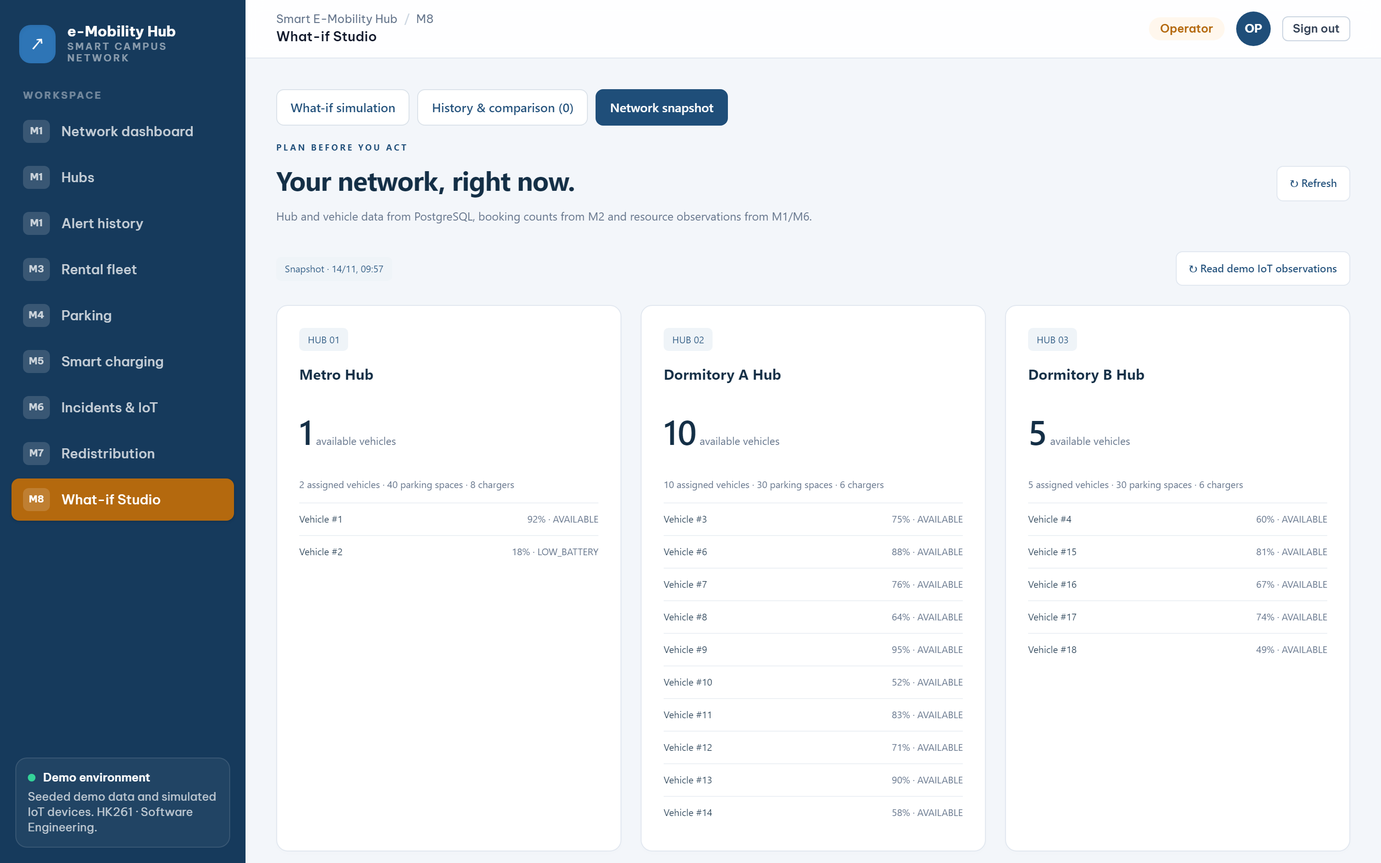
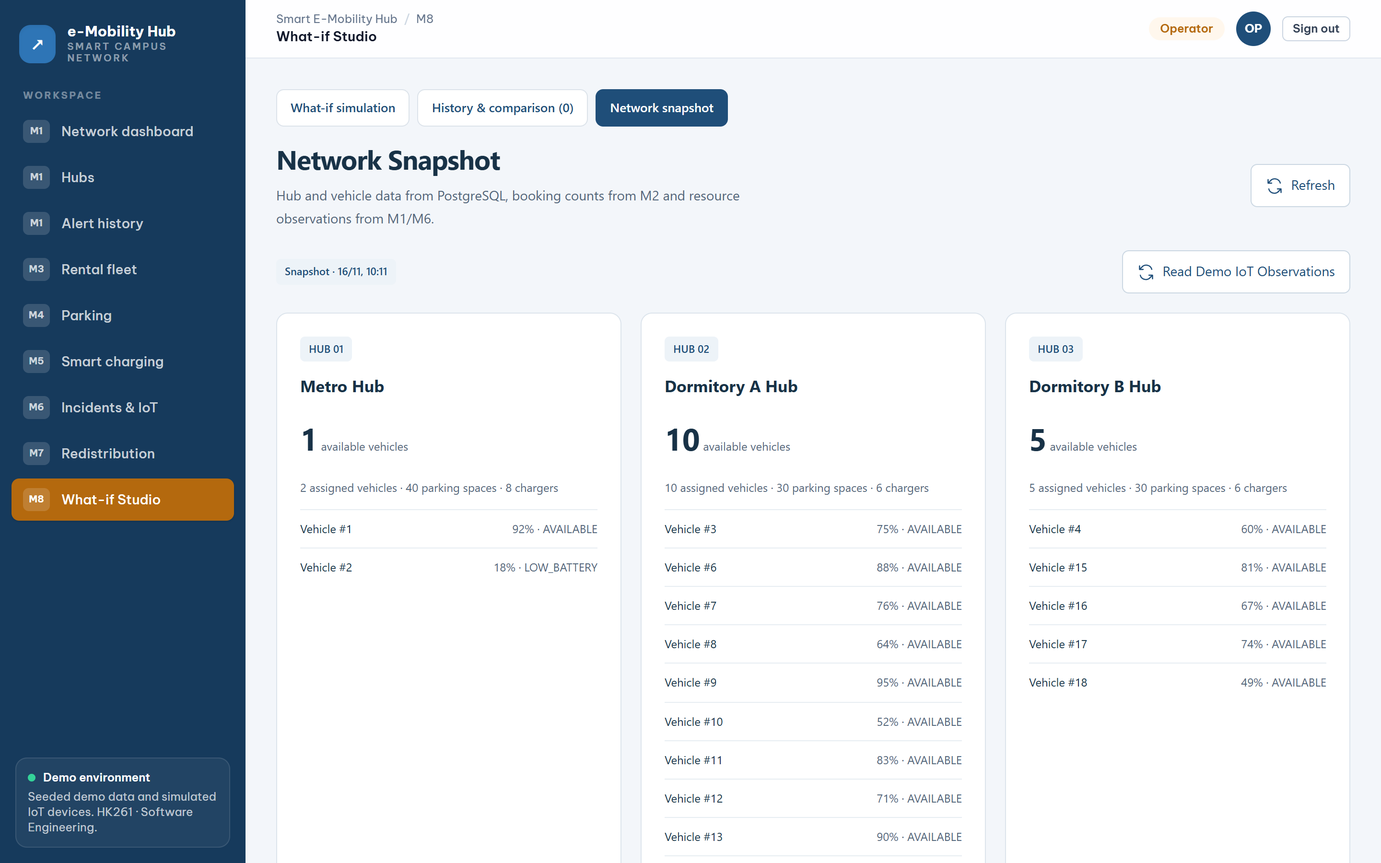
[DOCS][M8] Update M8 diagrams, contracts, runbook and screenshots to the current behavior
- Diagrams: proposal states (PENDING, NEEDS_REVIEW, PARTIAL, APPROVED, APPLIED, DISCARDED),
  AI plan exploration, Apply/Discard through RedistributionRecommendations and the M7 sync.
- module-contracts: proposal states instead of the unused SimulationRun states; decision and
  withdraw on the M7 contract; removed the outdated "not implemented" line.
- Runbook, demo script, SETUP and screenshot notes: removed DISPATCH_NOT_CONNECTED and the
  non-existent "Approve & execute" button; demo step 10 now shows a dispatch sent to M7.
- Recaptured the M8 screenshots on main's UI and updated the capture hints to the new labels.

diff --git a/docs/tools_for_figures/python/m8/m8.py b/docs/tools_for_figures/python/m8/m8.py
@@ -4,24 +4,33 @@ from lib import *
 O=png_dir('m8')
 usecase(O+'m8_usecase.png','«subsystem» M8 — What-if Simulation',
  [('UC-M8-01','Prepare a scenario|(describe or edit)'),('UC-M8-06','Validate the|scenario'),('UC-M8-02','Run a simulation|on a snapshot'),
-  ('UC-M8-03','Review and compare|saved runs'),('UC-M8-04','Review recommendations|(discard / apply)'),('UC-M8-05','Check recent booking|volume every 30 min')],
- left=[('op','Operator',False),('tm','Timer',True)], right=[('ai','AI provider (optional)',True),('own','M2, M3, M1, M6 data',True)],
- assoc=[('op','UC-M8-01'),('op','UC-M8-02'),('op','UC-M8-03'),('op','UC-M8-04'),('tm','UC-M8-05'),('ai','UC-M8-01'),('ai','UC-M8-04'),('own','UC-M8-02'),('own','UC-M8-05')],
+  ('UC-M8-03','Review and compare|saved runs'),('UC-M8-04','Review recommendations|(discard / send to M7)'),('UC-M8-05','Check recent booking|volume every 30 min')],
+ left=[('op','Operator',False),('tm','Timer',True)], right=[('ai','AI provider (optional)',True),('m7','M7 Redistribution',True),('own','M1–M4 data',True)],
+ assoc=[('op','UC-M8-01'),('op','UC-M8-02'),('op','UC-M8-03'),('op','UC-M8-04'),('tm','UC-M8-05'),('ai','UC-M8-01'),('ai','UC-M8-02'),('m7','UC-M8-04'),('own','UC-M8-02'),('own','UC-M8-05')],
  rels=[('UC-M8-01','UC-M8-06','include'),('UC-M8-02','UC-M8-06','include'),('UC-M8-04','UC-M8-02','extend')], amber=('UC-M8-05',))
 N={}
-N['SimulationController']=klass('SimulationController','REST, /api/m8 (OPERATOR)',attrs=None,ops=['+snapshot() / status() / runs()','+parse(text): ParseResult','+run(scenario, snapshotRunId, repeatRecentBookings): Run','+discard(runId, recId) / apply(runId, recId)','+check()'])
-N['SimulationService']=klass('SimulationService','service',attrs=None,ops=['+run(scenario, snapshotRunId, repeat): Run','+discard(runId, recId): Run','+apply(runId, recId)','+parse(text): ParseResult'])
-N['ScenarioAssistant']=klass('ScenarioAssistant','service, optional LLM (M8_LLM_*)',attrs=['-url, key, model: String'],ops=['+parse(text, snapshot): ParseResult','+validate(scenario, snapshot)','+recommend(snapshot, scenario, kpi, engine): Proposals','-parkingRoom(snapshot, hub): int'])
+N['SimulationController']=klass('SimulationController','REST, /api/m8 (OPERATOR)',attrs=None,ops=['+snapshot() / status() / runs()','+parse(text): ParseResult','+run(scenario, snapshotRunId, repeatRecentBookings,','    startingVehicles): Run','+discard(runId, recId) / apply(runId, recId): Run','+retry(runId, expectedRounds): Run','+check()'])
+N['SimulationService']=klass('SimulationService','service',attrs=None,ops=['+run(scenario, snapshotRunId, repeat, startingVehicles): Run','+retry(runId, expectedRounds): Run','+parse(text): ParseResult','+list(): List<Run>'])
+N['DispatchApplyService']=klass('DispatchApplyService','service, talks to M7',attrs=None,ops=['+apply(runId, recId, operator): Run','+discard(runId, recId, operator): Run','+sync(runs): List<Run>'])
+N['AgentPlanner']=klass('AgentPlanner','service, optional LLM tool loop',attrs=None,ops=['+extend(snapshot, scenario, previous): AgentState'])
+N['SimulationPlanTool']=klass('SimulationPlanTool','component',attrs=None,ops=['+evaluate(snapshot, scenario, actions): PlanEvaluation'])
+N['ScenarioAssistant']=klass('ScenarioAssistant','service, optional LLM (M8_LLM_*)',attrs=['-url, key, model: String'],ops=['+parse(text, snapshot): ParseResult','+validate(scenario, snapshot)','+recommend(snapshot, scenario, kpi, engine): Proposals','+toolChat(messages, tool): JsonNode'])
+N['StartingFleet']=klass('StartingFleet','utility',attrs=None,ops=['~override(snapshot, startingVehicles): Snapshot'])
 N['SimulationEngine']=klass('SimulationEngine','component, pure function',attrs=None,ops=['+simulate(snapshot, scenario): EngineResult'])
 N['SnapshotProvider']=klass('SnapshotProvider','interface',attrs=None,ops=['+capture(): Snapshot'],**IFACE)
 N['JdbcSnapshotProvider']=klass('JdbcSnapshotProvider','read-only, REPEATABLE_READ',attrs=['-devices: Map<String, DeviceState>'],ops=['+capture(): Snapshot','+onResourceState(e: ResourceStateUpdatedEvent)'])
+N['RedistributionRecommendations']=klass('RedistributionRecommendations','interface, shared.contracts (M7)',attrs=None,ops=['+propose(source, ref, from, to, amount, reason): String','+approve(id, operator): ApprovalResult','+decision(id): Decision','+withdraw(id, operator, reason): Decision'],**IFACE)
 N['RunStore']=klass('RunStore','JSON file, latest 200 runs',attrs=['-file: Path'],ops=['+save(run) / get(id) / list()'])
 N['NetworkMonitor']=klass('NetworkMonitor','@Scheduled every 30 min',attrs=['-state: State (volatile)'],ops=['+check()','+status(aiConfigured): Map'],**SCHED)
-N['SimulationModels']=klass('SimulationModels','immutable records',attrs=['Scenario(name, hubId, disabled, injectedRequests,','  durationMins, arrivalWindowMins, tripMins, reroute, seed)','Snapshot(hubs, vehicles, deviceStates, bookingWindow, capacities)','Kpi(requests, served, failed, failurePercent, meanWaitMins, peakQueue, hubs)','Run(scenario, snapshot, kpi, baseline, timeline, recommendations)','Recommendation(action, from, to, amount, status, projectedFailure%)'],ops=None)
-N['Tables']=klass('hub, rental_vehicle, reservation, m1_resource_state','tables of M1–M4 (read only)',attrs=None,ops=None,**EXT)
-classdiagram(O+'m8_class.png',N,[('SimulationController','SimulationService','assoc'),('SimulationController','NetworkMonitor','assoc'),
+N['SimulationModels']=klass('SimulationModels','immutable records',attrs=['Scenario(name, durationMins, seed, affectedHubs: HubSettings[])','HubSettings(hubId, disabled, closeFromMins, reopenAtMins,','  injectedRequests, arrivalWindowMins, tripMins, reroute, repeatBookings)','Snapshot(hubs, vehicles, deviceStates, bookingWindow, capacities, hypotheticalFleet)','Kpi(requests, served, failed, failurePercent, meanWaitMins, peakQueue, hubs)','Run(scenario, snapshot, kpi, baseline, timeline, recommendations, agent)','Recommendation(action, from, to, amount, status, projectedFailure%, dispatch)','DispatchProgress(tasks, message, m7RecommendationId)','AgentState(totalRounds, status, rounds, best)'],ops=None)
+T='hub, rental_vehicle, reservation, parking_space, redistribution_tasks, m1_resource_state'
+N['Tables']=klass(T,'tables of M1–M4, M7 (read only)',attrs=None,ops=None,**EXT)
+classdiagram(O+'m8_class.png',N,[('SimulationController','SimulationService','assoc'),('SimulationController','DispatchApplyService','assoc'),('SimulationController','NetworkMonitor','assoc'),
  ('SimulationService','SnapshotProvider','assoc'),('SimulationService','SimulationEngine','assoc'),('SimulationService','RunStore','assoc'),('SimulationService','ScenarioAssistant','assoc'),
- ('ScenarioAssistant','SimulationEngine','dep','re-simulates proposals'),('JdbcSnapshotProvider','SnapshotProvider','impl'),('JdbcSnapshotProvider','hub, rental_vehicle, reservation, m1_resource_state','dep','SELECT'),
+ ('SimulationService','AgentPlanner','assoc'),('SimulationService','StartingFleet','dep','edited fleet'),('AgentPlanner','SimulationPlanTool','assoc'),('AgentPlanner','ScenarioAssistant','dep','LLM call'),
+ ('SimulationPlanTool','SimulationEngine','assoc'),('ScenarioAssistant','SimulationEngine','dep','re-simulates proposals'),
+ ('DispatchApplyService','RunStore','assoc'),('DispatchApplyService','RedistributionRecommendations','assoc'),
+ ('JdbcSnapshotProvider','SnapshotProvider','impl'),('JdbcSnapshotProvider',T,'dep','SELECT'),
  ('NetworkMonitor','SnapshotProvider','assoc'),('NetworkMonitor','SimulationEngine','assoc'),('RunStore','SimulationModels','dep')],extra='splines=true;')
 mermaid(O+'m8_sequence.png','''sequenceDiagram
 autonumber
@@ -29,65 +38,105 @@ actor OP as Operator
 participant C as SimulationController
 participant S as SimulationService
 participant P as JdbcSnapshotProvider
+participant G as AgentPlanner
 participant A as ScenarioAssistant
 participant E as SimulationEngine
 participant R as RunStore
-OP->>C: POST /api/m8/runs (scenario, seed 42)
-C->>S: run(scenario, null, false)
-S->>P: capture()
-P-->>S: Snapshot (hubs, vehicles, bookings of last 30 min, M1 capacities)
+participant D as DispatchApplyService
+participant M7 as M7 RecommendationService
+OP->>C: POST /api/m8/runs (scenario)
+C->>S: run(scenario, snapshotRunId, repeatRecentBookings, startingVehicles)
+S->>P: capture() (or the snapshot of a saved run)
+P-->>S: Snapshot (hubs, vehicles, M2 bookings of last 30 min, M1/M4 capacities, incoming M7 tasks)
 S->>A: validate(scenario, snapshot)
-S->>E: simulate(snapshot, scenario)
-E-->>S: KPI and timeline
-S->>E: simulate(snapshot, same scenario with hub open)
-E-->>S: baseline KPI
-S->>A: recommend(snapshot, scenario, kpi, engine)
-A->>E: simulate each candidate on a copy
-A-->>S: proposals that reduce failed requests
+S->>E: simulate(snapshot, scenario) and the baseline with hubs open
+E-->>S: KPI, timeline, baseline KPI
+alt AI provider configured
+  S->>G: extend(snapshot, scenario)
+  loop at most 3 rounds
+    G->>E: simulate_plan(actions) on the same snapshot
+    E-->>G: KPI or validation feedback
+  end
+  G-->>S: AgentState (best tested plan)
+  opt provider failed and no tested plan
+    S->>A: recommend(...) with local rules
+  end
+else no AI provider
+  S->>A: recommend(snapshot, scenario, kpi, engine) with local rules
+end
 S->>R: save(run)
 S-->>OP: Run (KPI, baseline, proposals, warnings)
-Note over S,R: no INSERT or UPDATE on any operational table
-''', width=1400)
+OP->>C: POST /runs/:id/recommendations/:recId/apply
+C->>D: apply(runId, recId, operator)
+D->>M7: propose("M8_SIMULATION", recId, from, to, amount)
+D->>M7: approve(m7Id, operator)
+M7-->>D: ApprovalResult (status, task ids)
+D->>R: save(run) as PENDING, PARTIAL or APPROVED
+OP->>C: GET /api/m8/runs (later)
+C->>D: sync(runs)
+D->>M7: decision(m7Id)
+M7-->>D: status, done and failed tasks
+D->>R: save(run) only if changed (APPLIED or DISCARDED)
+Note over S,D: M8 never writes operational tables. M7 creates and runs the tasks
+''', width=1900)
 
 
 # ---------------------------------------------------------------- state: a proposal inside a saved run
-# A run is created complete and never changes; only the status of each proposal moves (SimulationService).
+# A run is saved once; only the status of each proposal moves (DispatchApplyService follows M7's decision).
 statemachine(O+'m8_state.png',
- ['PENDING','DISCARDED',('APPLIED','style="rounded,dashed,filled", fillcolor="#f2f2f2", color="#888888", fontcolor="#777777"')],
- [('PENDING','DISCARDED','discard(runId, id)\\n/ save run with the new status'),
-  ('PENDING','PENDING','apply(runId, id)\\n/ refused: DISPATCH_NOT_CONNECTED,\\nnothing executed'),
-  ('PENDING','APPLIED','apply after M7 integration\\n(planned)','style=dashed, color="#888888", fontcolor="#777777"')],
- initial='PENDING', final=('DISCARDED',),
+ ['PENDING','NEEDS_REVIEW','PARTIAL','APPROVED','APPLIED','DISCARDED'],
+ [('PENDING','DISCARDED','discard / withdraw the M7 proposal,\\nor M7 rejected it'),
+  ('PENDING','PENDING','apply / M7 could not\\ncreate a task yet'),
+  ('PENDING','PARTIAL','apply / M7 created\\nsome tasks'),
+  ('PENDING','APPROVED','apply / M7 created\\nevery task'),
+  ('PENDING','NEEDS_REVIEW','apply / M7 approval\\nnot confirmed'),
+  ('NEEDS_REVIEW','PENDING','apply / M7 still pending:\\nretry the approval'),
+  ('NEEDS_REVIEW','APPROVED','apply or list runs /\\nM7 already approved'),
+  ('NEEDS_REVIEW','DISCARDED','discard, or M7 rejected'),
+  ('PARTIAL','PARTIAL','apply again / more tasks'),
+  ('PARTIAL','APPROVED','apply again /\\nremaining tasks created'),
+  ('APPROVED','APPLIED','list runs / every M7 task finished,\\nat least one vehicle arrived')],
+ initial='PENDING', final=('APPLIED','DISCARDED'),
  extra='label=<<b>Proposal of a what-if run (M8)</b>>; labelloc=t; fontsize=16;',
  notes=['note [shape=note, style=filled, fillcolor="#fff6d5", color="#c9a227", fontname="DejaVu Sans", fontsize=11, '
-        'label="Created with the run, always PENDING.\\nDiscarding a non-PENDING proposal\\nfails with ALREADY_RESOLVED.\\nThe run itself is never modified."];',
+        'label="Created with the run, always PENDING.\\nApply registers it with M7 (propose + approve);\\nM8 then follows M7 when runs are listed.\\nOnly dispatch proposals can be applied,\\nand not on an edited (hypothetical) fleet."];',
         'note -> PENDING [style=dashed, arrowhead=none, color="#c9a227"];'])
 
 # ---------------------------------------------------------------- activity: from a description to a decision
 src=activity_header('What-if run: from a description to a decision (M8)')+f'''
 d1 [label="Describe\\nin words?", {DEC}];
 p [label="Parse: LLM if configured,\\notherwise local rules", {ACT}];
-f [label="Pre-filled editable form", {ACT}];
+f [label="Editable form: affected hubs,\\nclosing time, demand, rerouting", {ACT}];
 d2 [label="Fields valid?", {DEC}];
 d3 [label="Snapshot\\nsource?", {DEC}];
 c [label="Capture snapshot in one\\nREPEATABLE_READ read", {ACT}];
 r [label="Reuse the snapshot\\nof a saved run", {ACT}];
 m [shape=diamond, label="", width=0.3, height=0.3, style=filled, fillcolor="#ffffff"];
+fl [label="Apply edited vehicle counts\\n(optional, hypothetical fleet)", {ACT}];
 sim [label="Simulate scenario and baseline\\nminute by minute", {ACT}];
-pr [label="Propose dispatch or reroute;\\nkeep only proposals that\\nreduce failed requests", {ACT}];
+d5 [label="AI provider\\nconfigured?", {DEC}];
+ai [label="AI tests up to 3 dispatch plans\\nwith simulate_plan; keeps only\\nplans that reduce unserved requests", {ACT}];
+pr [label="Local rules: dispatch from a donor hub\\nthat keeps one vehicle and fits\\nrental-bike parking", {ACT}];
 sv [label="Save the run (RunStore)", {ACT}];
 sh [label="Show KPIs, timeline, per-hub table,\\nproposals and assumptions", {ACT}];
 d4 [label="Next step?", {DEC}];
 cmp [label="History: select two runs,\\ncompare KPIs", {ACT}];
-dis [label="Proposal DISCARDED;\\nlive state unchanged", {ACT}];
-ap [label="Refused: DISPATCH_NOT_CONNECTED;\\nnothing executed", {ERR}];
+dis [label="Proposal DISCARDED;\\nM7 proposal withdrawn", {ACT}];
+d6 [label="Live fleet?", {DEC}];
+ap [label="Send to M7: propose + approve;\\nM7 picks vehicles, creates tasks", {OK}];
+no [label="Refused: run again\\nwith the live fleet", {ERR}];
+fw [label="M8 follows M7:\\nAPPLIED when tasks finish,\\nDISCARDED if rejected", {ACT}];
 e {END};
 s -> d1; d1 -> p [label="yes"]; d1 -> f [label="no"]; p -> f; f -> d2; d2 -> f [label="no: field errors", constraint=false];
-d2 -> d3 [label="yes"]; d3 -> c [label="live"]; d3 -> r [label="saved run"]; c -> m; r -> m; m -> sim -> pr -> sv -> sh -> d4;
+d2 -> d3 [label="yes"]; d3 -> c [label="live"]; d3 -> r [label="saved run"]; c -> m; r -> m; m -> fl -> sim -> d5;
+d5 -> ai [label="yes"]; d5 -> pr [label="no"]; ai -> pr [label="provider failed,\\nno tested plan", style=dashed];
+ai -> sv; pr -> sv; sv -> sh -> d4;
 d4 -> f [label="edit and run again", constraint=false, style=dashed];
-d4 -> cmp [label="compare"]; d4 -> dis [label="discard"]; d4 -> ap [label="apply"];
-cmp -> e; dis -> e; ap -> e;
-{{rank=same; c; r}} {{rank=same; cmp; dis; ap}}
+d4 -> ai [label="retry AI: +3 rounds", constraint=false, style=dashed];
+d4 -> cmp [label="compare"]; d4 -> dis [label="discard"]; d4 -> d6 [label="apply"];
+d6 -> ap [label="yes"]; d6 -> no [label="no"]; ap -> fw;
+cmp -> e; dis -> e; fw -> e; no -> e;
+{{rank=same; c; r}} {{rank=same; ai; pr}} {{rank=same; cmp; dis; d6}}
 }}'''
 run_dot(src,O+'m8_activity.png',dpi=150)
 print('ok')

diff --git a/docs/runbooks/m8-local.md b/docs/runbooks/m8-local.md
@@ -1,7 +1,6 @@
 # M8 — local setup and integration
 
-Branch: feature/m8-UI_whatif. Includes M1 1656510, M2 5e59464, M3 6ed46b4
-and M6 5583c1c, with local integration fixes. These changes have not been pushed.
+M8 is merged into main and runs against the shared PostgreSQL database with the other modules.
 
 ## Start and sign in
 
@@ -17,13 +16,17 @@ Stop with ./scripts/stop-m8.ps1; PostgreSQL and its data remain intact.
 The startup script reads .local/m8-openai-key.dpapi, encrypted with Windows DPAPI
 for the current Windows user. Git ignores this file. It decrypts the key only for
 the backend launch; credentials never become Java command-line arguments or frontend configuration.
-Default endpoint: https://api.openai.com/v1/chat/completions. Model: gpt-4.1-mini.
+Default model: gpt-6.1-sol through https://api.openai.com/v1/responses; other models use
+https://api.openai.com/v1/chat/completions.
 Override using M8_LLM_URL, M8_LLM_KEY and M8_LLM_MODEL. Never use VITE_* for keys.
 
 The provider receives descriptions and, for recommendations, the snapshot and KPIs.
 Requests use JSON mode, bounded output and a 35-second timeout. Parameters are validated.
 Recommendations must pass resource/capacity checks and improve deterministic simulation results.
-Only dispatch and rerouting proposals are recognized. AI cannot execute operational actions.
+Only dispatch proposals are recognized; rerouting stays an operator setting. AI cannot execute
+operational actions. When AI is configured, each run lets it test up to three dispatch plans with the
+simulate_plan tool on the saved snapshot; Retry adds three more rounds. Only plans that reduce
+unserved requests are kept.
 Provider failures show sanitized status/error codes and fall back to labeled local rules.
 AI configured means credentials are loaded; it does not prove a call succeeded.
 A parser result marked AI confirms an actual successful provider response.
@@ -36,11 +39,16 @@ Reference: [OpenAI Structured Outputs](https://developers.openai.com/api/docs/gu
 - Immutable Hub/vehicle snapshot from PostgreSQL in a REPEATABLE_READ transaction.
 - One-minute deterministic engine with seeded arrivals; no LLM or live writes.
 - KPIs, open-hub baseline on the same snapshot, chart, history, editing and comparison.
-- M6 ResourceStateUpdatedEvent observations displayed separately with receive timestamps.
+- ResourceStateUpdated events from M4 (parking spaces) and M5 (chargers) displayed separately
+  as "Device state updates" with receive timestamps.
   These RAM observations are not transactionally synchronized with the database snapshot
   and do not overwrite authoritative M3 vehicle state in the engine.
 - Independently verified proposals and persistent Discard.
-- Apply returns 409 DISPATCH_NOT_CONNECTED until M7 provides execution and revalidation.
+- Apply sends a dispatch proposal to M7 through `RedistributionRecommendations` (propose + approve).
+  M7 picks the vehicles, checks parking and creates the tasks. Discard withdraws a pending M7 proposal.
+  When runs are listed, M8 follows M7: a rejected proposal becomes DISCARDED, and an approved one
+  becomes APPLIED once all its tasks have finished with at least one vehicle delivered.
+- Runs on an edited (hypothetical) fleet can be simulated but not applied.
 - Accepted M2 bookings from the captured 30-minute window can supply the scenario volume.
   The saved snapshot retains that window, so editing an old run repeats its original volume.
 - A 30-minute network check repeats recent accepted bookings against current resources,
@@ -61,7 +69,8 @@ Reference: [OpenAI Structured Outputs](https://developers.openai.com/api/docs/gu
 - Accepted bookings are not total demand: rejected attempts and searches are excluded.
   Cancelled or completed bookings still count as historical accepted arrivals.
 - Each trip holds a vehicle for tripMins, then returns to its origin; no charging or battery depletion.
-- Hub closure lasts the horizon. Rerouting picks available hubs by ID without travel time.
+- A hub can be closed from a given minute and optionally reopened. Rerouting (only during a
+  closure) picks available hubs by ID without travel time.
 - Requests still waiting at the horizon count as failed. Mean wait includes served requests only.
 - Parking reservations, charging schedules, dispatch travel and ongoing-trip arrivals are not modeled.
 - The baseline holds demand, seed and rerouting fixed and reopens the affected hub.
@@ -77,10 +86,10 @@ English display labels for seeded hubs do not change live Hub rows.
   total attempted demand remains unavailable.
 - TV3: review the local rental lifecycle/event and snapshot contract changes.
 - TV4: review V20 M2 persistence migration already applied locally; approve the separate
-  M8 schema, operational hub state and M4 parking validation contract. M4 remains a stub.
-- TV7: Apply contract with live revalidation, deduplication and execution status.
-  RecommendationApprovedEvent currently lacks dispatch details; M8 does not alter it.
-- M1: booking-risk warnings are integrated; dispatch execution status awaits M7.
+  M8 schema and operational hub state.
+- TV7: Apply uses `RedistributionRecommendations` (propose, approve, decision, withdraw).
+  The donor keep-back differs: M8 keeps 1 vehicle, M7 keeps 4, M1 warns at 2. Needs one agreed value.
+- M1: booking-risk warnings are integrated.
 
 ## Verify
 
@@ -108,8 +117,8 @@ restart persistence, bounds, M8 roles, recommendation feasibility and M3 user-ID
 
 For a demo, open History & comparison and View & edit on
 Integration demo - repeat recent bookings. Compare it with another saved run, or use
-Try this plan to preview rerouting. Saving a new run can call the configured LLM.
-M7 Apply is unavailable, M4 parking validation is pending, and M8 history is file-backed.
+Review dispatch to send a proposal to M7. Saving a new run can call the configured LLM.
+M8 history is file-backed.
 
 ## Exploratory QA fixes — 27 October 2026
 

diff --git a/docs/product/module-contracts.md b/docs/product/module-contracts.md
@@ -33,7 +33,7 @@ Mechanism: level 2 of the original Appendix A.3 — Spring's in-process event bu
 | ChargingSession | M5 | REQUESTED, QUEUED, SCHEDULED, CHARGING, COMPLETED, INTERRUPTED, CANCELLED | — |
 | Device reading, Incident | M6 | Incident: REPORTED, ASSIGNED, IN_PROGRESS, RESOLVED, CLOSED | — |
 | RedistributionTask | M7 | CREATED, IN_PROGRESS, DONE, FAILED | — |
-| SimulationRun | M8 | DRAFT, RUNNING, COMPLETED, APPLIED, DISCARDED | — |
+| What-if proposal (inside a saved run) | M8 | PENDING, NEEDS_REVIEW, PARTIAL, APPROVED, APPLIED, DISCARDED | — |
 
 **Shared parking pool (BR-M4-08).** A Hub has one pool of parking spaces. A rental vehicle standing at a Hub
 occupies a space in that pool, just like a personal vehicle. "Hub full" therefore means the same thing when a
@@ -71,7 +71,7 @@ on the dashboard (M1) and in the What-if snapshot (M8).
 |---|---|---|---|---|
 | `ReservationCore` | `m2reservation.service` (only allowed cross-module service import) | M2 | M4 | Booking a parking space must hold the reservation in the same transaction |
 | `ParkingDock` | `shared.contracts` | M4 (`RentalDockService`) | M3 (return, pick-up), M7 (task start / done / failed) | Return or delivery needs an immediate "is there a space"; the space row is locked so two vehicles cannot take the last space |
-| `RedistributionRecommendations` | `shared.contracts` | M7 (`RecommendationService`) | M8 (What-if proposals) | `propose` returns M7's recommendation id at once; `approve` (button in M8) answers with the tasks created. M7 picks the vehicles and checks BR-M7-01..03 |
+| `RedistributionRecommendations` | `shared.contracts` | M7 (`RecommendationService`) | M8 (What-if proposals) | `propose` returns M7's recommendation id at once; `approve` (button in M8) answers with the tasks created. M7 picks the vehicles and checks BR-M7-01..03. `decision` lets M8 follow the Operator's decision and task progress in M7; `withdraw` rejects a still-pending proposal when it is discarded in M8 |
 | Snapshot reads | read-only JDBC | each owner's tables | M8 (`JdbcSnapshotProvider`), M1, M5, M7 lookups | Consistent read of current state; never written back |
 
 `ParkingDock` errors: `HUB_FULL` (409) when no free space is left — M3 returns it with the Hubs that still have
@@ -90,10 +90,9 @@ room, M7 turns it into `DESTINATION_FULL`; `HUB_NOT_FOUND` (404).
 
 ## A.6 Not implemented yet (tracked in the review)
 
-- M8 does not call `RedistributionRecommendations` yet (its branch still creates M7 tasks over REST).
 - M8 reads parking occupancy per Hub from the snapshot's `capacities`; its engine still estimates occupancy from
   rental vehicles only.
-- M8's runs have no state field yet (SimulationRun states above are the design) and are stored in a JSON file,
-  not in the database.
+- M8's runs are stored in a JSON file (latest 200), not in the database. Only the proposals inside a run have a
+  state; the run itself has none.
 - M6 incidents (since 13/11): stored, API `/api/m6/incidents`, created automatically from failure readings
   (BR-M6-06/10), screen in M6. Publication after commit uses a separate transaction, not an outbox.

diff --git a/docs/tools_for_figures/screenshots/README.md b/docs/tools_for_figures/screenshots/README.md
@@ -91,4 +91,4 @@ Chép các file sau vào `images/ui/` của report, đổi sang tên ở cột p
 - **Đăng nhập lỗi:** thường do sai cổng (phải là 5173) hoặc backend chưa chạy. Cổng khác thì dùng `BASE=http://localhost:5174 node capture.mjs mockup`, nhưng phải thêm cổng đó vào CORS của backend.
 - **Khổ ảnh khác:** dùng `WIDTH=1280 HEIGHT=800 npm run mockup`.
 - **Chụp tay không dùng script:** mở Chrome DevTools, bật Device toolbar, đặt khổ 1440×900, rồi Ctrl+Shift+P → *Capture screenshot*. Đặt tên và để vào đúng thư mục như bảng trên.
-- **Màn M8:** chụp lại sau khi TV8 merge phần nối M7, để nút *Approve & execute* không còn bị khoá.
+- **Màn M8:** ảnh `real` cần dữ liệu có sẵn (một run đã lưu, một đề xuất điều xe). Muốn chụp lại thì chạy kịch bản ở bước 10 của `docs/demo/kich-ban-demo.md` trước.
